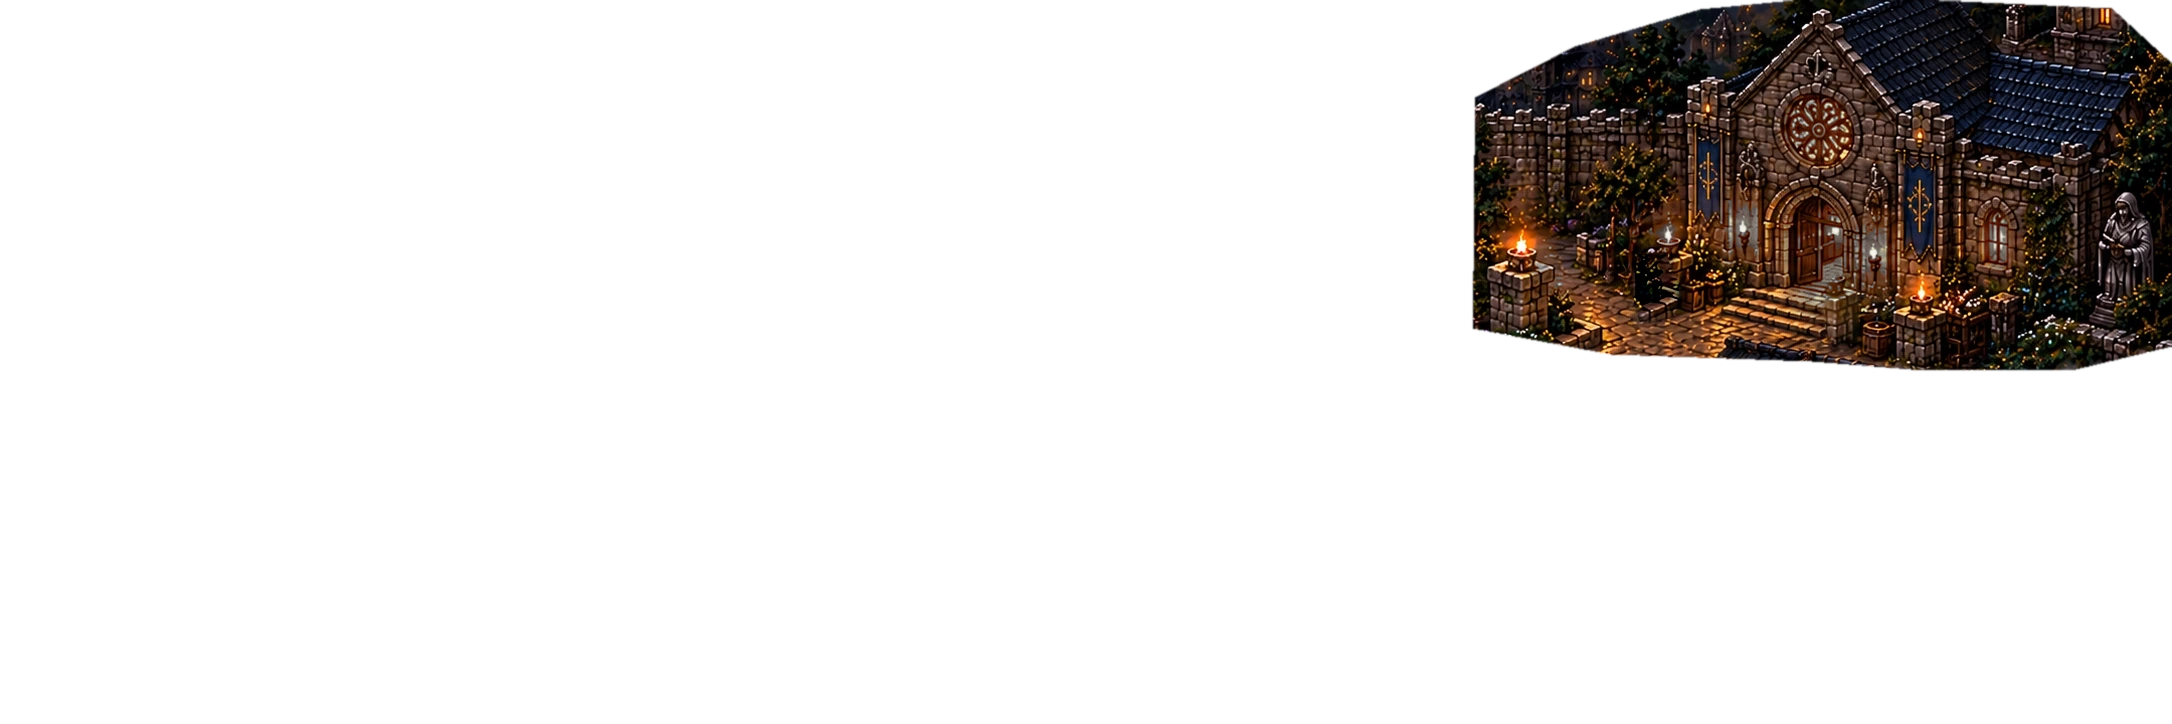
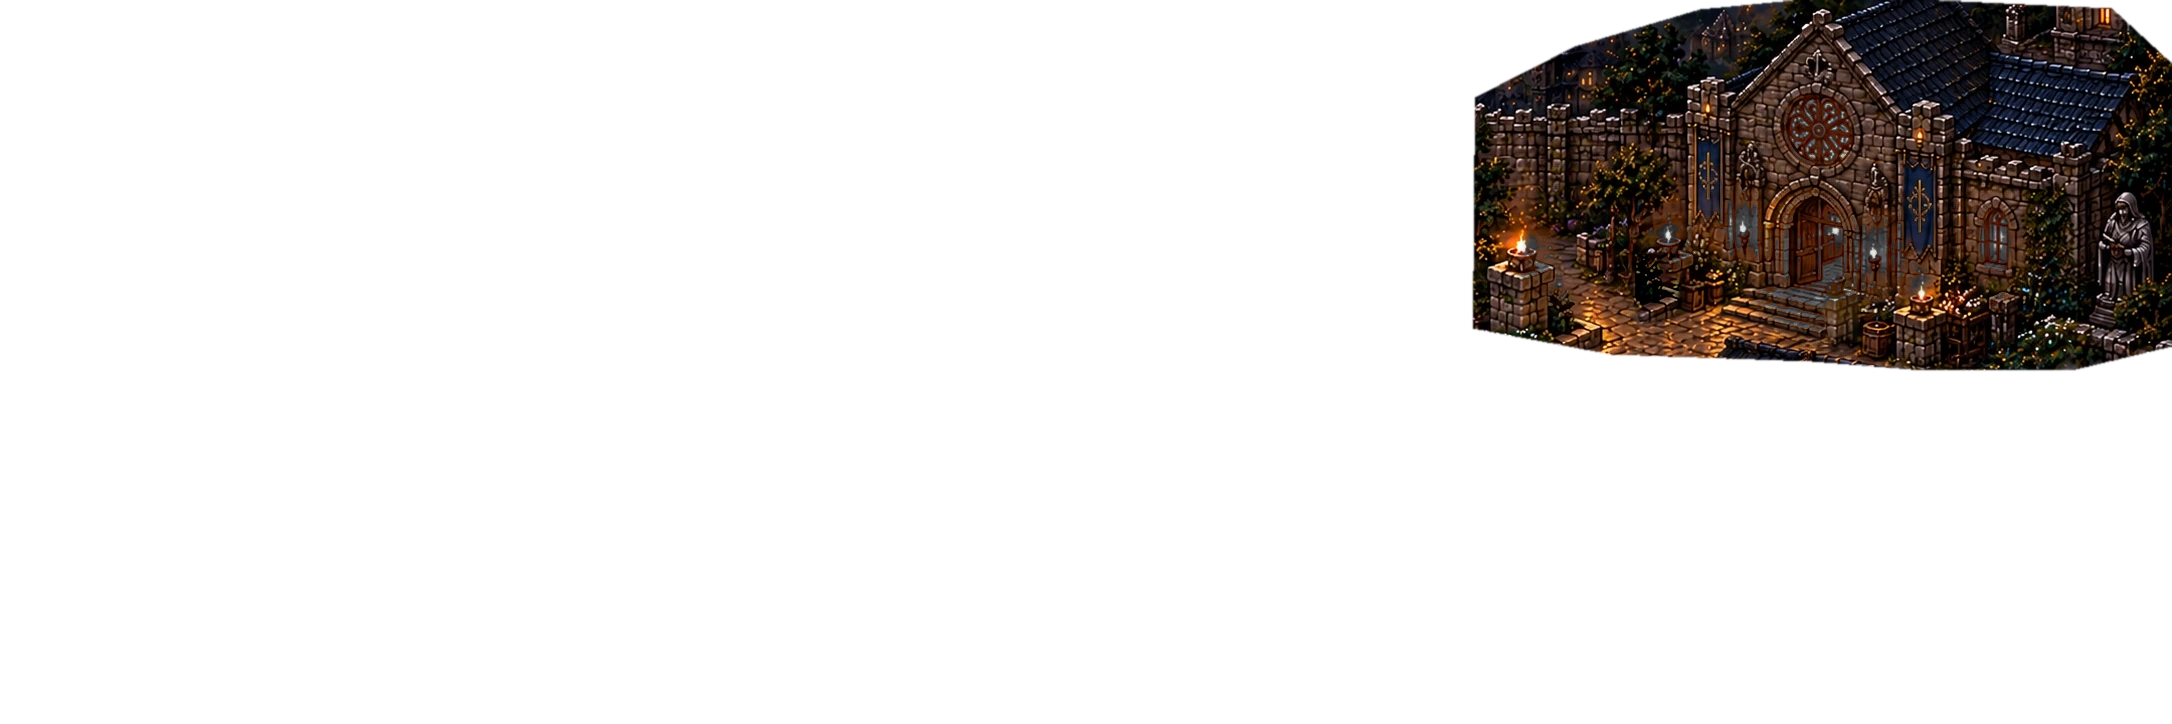
Ship vacant town light and occupancy art (0.0.127)
* Finish vacant town art with extinguished windows and sealed magic

* Ship refreshed vacant building art as Wyrmforge 0.0.127

* Ship refreshed vacant building art as Wyrmforge 0.0.127

* Ship refreshed vacant building art as Wyrmforge 0.0.127

* Ship refreshed vacant building art as Wyrmforge 0.0.127

* Ship refreshed vacant building art as Wyrmforge 0.0.127

Changed region(s): [[0.7403, 0.2735, 0.9254, 0.4558], [0.802, 0.1519, 0.8637, 0.2431], [0.6786, 0.3039, 0.7403, 0.4254]]

diff --git a/tools/art/build_town_vacancy.py b/tools/art/build_town_vacancy.py
@@ -25,6 +25,11 @@ SIZE = (2172, 724)
 # cobbled public square or other properties. The edges are art alignment masks.
 PLATES = {
     "nexus": {
+        # Include window panes, purple sigils and the trading stall, not just street lamps.
+        "emission_zones": [(100, 196, 45, 65), (190, 208, 46, 55), (273, 216, 55, 62),
+                           (334, 192, 45, 55), (403, 203, 47, 60), (485, 190, 43, 62),
+                           (542, 216, 55, 73), (122, 289, 80, 45), (363, 286, 72, 47),
+                           (510, 294, 92, 46), (630, 280, 44, 41)],
         "clone_offsets": [(92, 34), (72, 12)],
         "boundary": [(2, 74), (98, 22), (292, 0), (530, 13), (706, 94),
                      (705, 319), (596, 364), (367, 355), (123, 359), (3, 331)],
@@ -43,6 +48,10 @@ PLATES = {
         ],
     },
     "codex": {
+        "emission_zones": [(1551, 275, 35, 70), (1653, 258, 65, 62),
+                           (1729, 191, 35, 56), (1816, 118, 71, 67),
+                           (1820, 278, 77, 70), (1900, 240, 50, 65),
+                           (2003, 247, 55, 75), (2105, 261, 45, 71)],
         "clone_offsets": [(-88, 32), (88, 20)],
         "boundary": [(1475, 97), (1575, 46), (1700, 9), (1793, 0), (1938, 0),
                      (2111, 8), (2171, 63), (2171, 346), (2075, 369),
@@ -60,6 +69,10 @@ PLATES = {
         ],
     },
     "legends": {
+        "emission_zones": [(1557, 482, 25, 44), (1665, 520, 80, 80),
+                           (1748, 537, 64, 74), (1834, 540, 68, 95),
+                           (1920, 555, 77, 104), (2020, 569, 83, 102),
+                           (2115, 580, 81, 98)],
         "clone_offsets": [(-75, 21), (-70, 10), (85, 12)],
         "boundary": [(1481, 479), (1565, 413), (1746, 353), (1924, 356),
                      (2083, 390), (2171, 463), (2171, 715), (2052, 722),
@@ -113,13 +126,15 @@ def dormant_plate(original: np.ndarray, plan: dict) -> Image.Image:
     violet = np.clip((red + blue - green * 2) / 130, 0, 1)
     luminous = np.clip((np.max(source_rgb, axis=2) - 60) / 135, 0, 1)
     light_mask = np.zeros((h, w), dtype=np.float32)
-    for x, y, rx, ry in plan["lamps"]:
+    for x, y, rx, ry in plan["lamps"] + plan["emission_zones"]:
         r2 = ((xx - x) / rx) ** 2 + ((yy - y) / ry) ** 2
         light_mask = np.maximum(light_mask, np.clip(1.0 - r2, 0, 1) ** 0.7)
-    suppression = np.clip(light_mask * luminous * np.maximum(warm, violet * .85) * 1.25, 0, .87)
+    # A sleeping building may retain readable masonry, never emitting bright
+    # orange windows, magical purple runes or lit trading stalls.
+    suppression = np.clip(light_mask * luminous * np.maximum(warm, violet * .85) * 1.75, 0, .96)
     # Preserve the painting's texture; only the emissive chroma and intensity go.
     gray = (source_rgb[:, :, 0] * .24 + source_rgb[:, :, 1] * .58 + source_rgb[:, :, 2] * .18)
-    neutral = np.stack((gray * .69, gray * .72, gray * .78), axis=-1)
+    neutral = np.stack((gray * .43, gray * .46, gray * .51), axis=-1)
     painted = np.clip(painted * (1 - suppression[:, :, None]) + neutral * suppression[:, :, None], 0, 255)
     cutout = Image.new("L", SIZE, 0)
     drawer = ImageDraw.Draw(cutout)

diff --git a/tests/Wyrmforge.Browser.Tests/WyrmforgeBrowserTests.cs b/tests/Wyrmforge.Browser.Tests/WyrmforgeBrowserTests.cs
@@ -1681,9 +1681,9 @@ public sealed class WyrmforgeBrowserTests : PageTest
         Assert.IsTrue(await Page.Locator(".town-dormant-art").First.EvaluateAsync<bool>(
             "element => element.complete && element.naturalWidth === 2172 && element.naturalHeight === 724 && " +
             "getComputedStyle(element).filter === 'none' && getComputedStyle(element).backdropFilter === 'none'"));
-        await Expect(Page.Locator(".town-dormant-art--build")).ToHaveAttributeAsync("src", "art/town-vacant-nexus.webp?v=126");
-        await Expect(Page.Locator(".town-dormant-art--codex")).ToHaveAttributeAsync("src", "art/town-vacant-codex.webp?v=126");
-        await Expect(Page.Locator(".town-dormant-art--legends")).ToHaveAttributeAsync("src", "art/town-vacant-legends.webp?v=126");
+        await Expect(Page.Locator(".town-dormant-art--build")).ToHaveAttributeAsync("src", "art/town-vacant-nexus.webp?v=127");
+        await Expect(Page.Locator(".town-dormant-art--codex")).ToHaveAttributeAsync("src", "art/town-vacant-codex.webp?v=127");
+        await Expect(Page.Locator(".town-dormant-art--legends")).ToHaveAttributeAsync("src", "art/town-vacant-legends.webp?v=127");
 
         await Page.GetByRole(AriaRole.Button, new() { Name = "BEGIN FIRST HUNT" }).ClickAsync();
         var oath = Page.GetByRole(AriaRole.Dialog, new() { Name = "Choose your primary magic" });

diff --git a/README.md b/README.md
@@ -1,5 +1,11 @@
 # Wyrmforge
 
+## Prototype 0.0.127 — Vacant building light-source fidelity
+
+- Refine each authored dormant building plate to extinguish lit windows, purple magic, and stall lighting in the artwork itself instead of dimming the town with CSS.
+- Keep blacksmith vacancy, permanently open World Gate, and independent building unlock states unchanged. The new asset version prevents browsers retaining old town artwork.
+- [Before/after implementation and visual QA](docs/art/town-vacancy-correction-2026-10-19.md). Phone Safari acceptance remains a separate device check.
+
 ## Prototype 0.0.126 — Town building black-wash regression correction
 
 - Remove the black CSS overlays entirely; replace them with three **real transparent artwork plates** for the locked Arcane Nexus, Codex and Hall of Fame. Vacant plates eliminate painted pedestrians and suppress their warm/violet building lights while preserving stonework.

diff --git a/docs/art/town-vacancy-correction-2026-10-19.md b/docs/art/town-vacancy-correction-2026-10-19.md
@@ -1,5 +1,7 @@
 # Refuge town vacant buildings — 19 October 2026
 
+> Follow-up 0.0.127: extended the paint-level light masks to windows, purple runes and stalls; all three RGBA plates were rebuilt and the native panorama proof refreshed. Building artwork is replaced selectively, with no full-screen or CSS darkening. The in-person iPhone Safari swipe and framing check is still outstanding.
+
 ## Regression corrected
 
 PR #131 added opaque black shapes, backdrop filters and feathered masks over locked buildings. They covered parts of the town and never removed people or actual lights. They have been removed.
